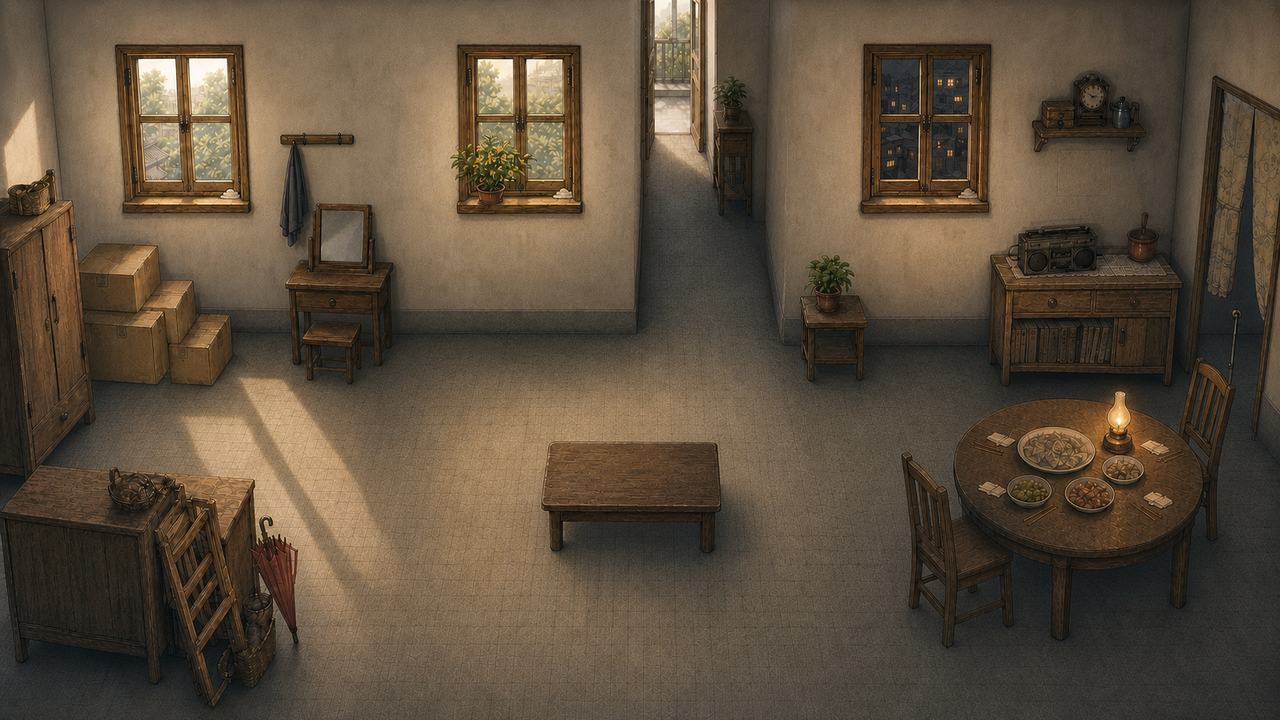
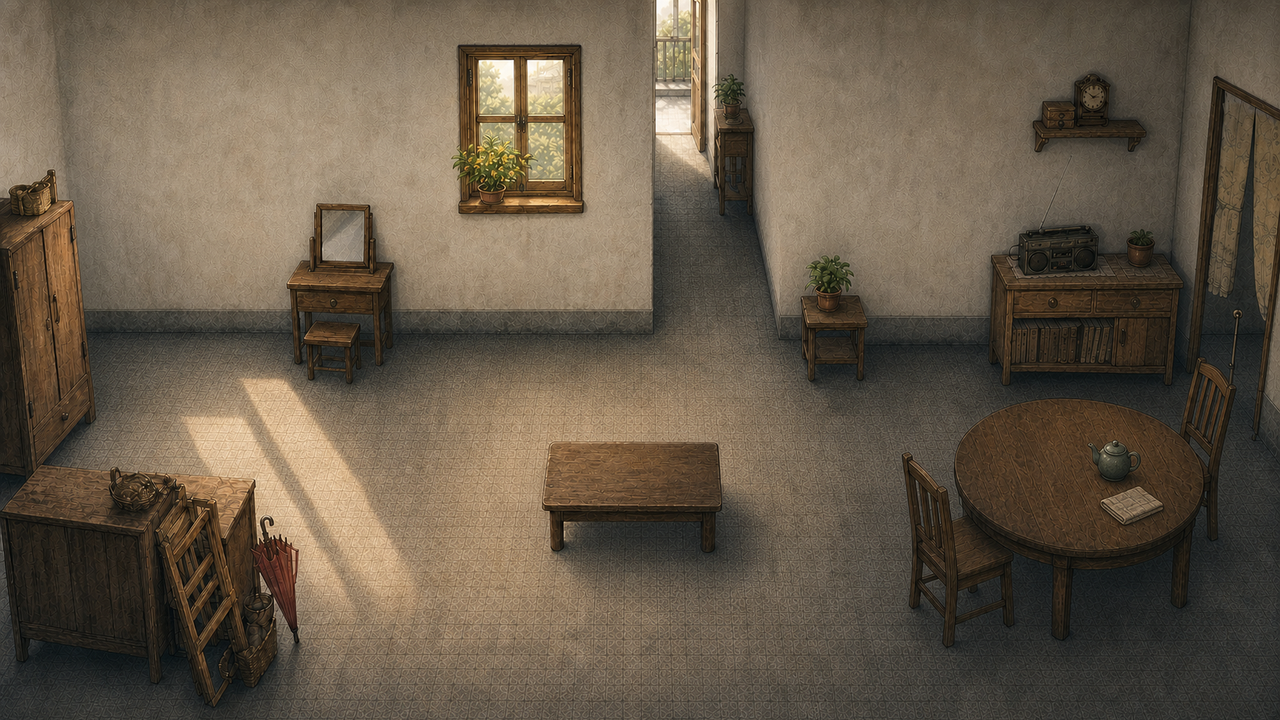
fix: align shared life resolved state

diff --git a/tests/e2e/shared-life-art.spec.ts b/tests/e2e/shared-life-art.spec.ts
@@ -80,6 +80,23 @@ async function capture(page: Page, testInfo: TestInfo, name: string): Promise<vo
   });
 }
 
+async function captureCanvas(page: Page, testInfo: TestInfo, name: string): Promise<void> {
+  const overlays = page.locator('#hud, #panel-layer, #system-layer');
+  await overlays.evaluateAll((elements) => {
+    for (const element of elements) (element as HTMLElement).style.visibility = 'hidden';
+  });
+  try {
+    await page.locator('canvas').screenshot({
+      path: testInfo.outputPath(`${name}.png`),
+      animations: 'allow',
+    });
+  } finally {
+    await overlays.evaluateAll((elements) => {
+      for (const element of elements) (element as HTMLElement).style.visibility = '';
+    });
+  }
+}
+
 async function assertNoPageScroll(page: Page): Promise<void> {
   const metrics = await page.evaluate(() => ({
     viewportWidth: window.innerWidth,
@@ -235,7 +252,12 @@ test('completes photo ordering, all three placements and the corridor exit', asy
   await moveTo(page, 940, 215);
   await moveTo(page, 940, 385);
   await moveTo(page, 1065, 385);
-  await interactWith(page, '收音机 · 波纹槽');
+  const radioPrompt = page.locator('.interaction-prompt');
+  await expect(radioPrompt).toContainText('收音机 · 波纹槽');
+  await radioPrompt.click();
+  await page.waitForTimeout(340);
+  await captureCanvas(page, testInfo, 'shared-life-resolved-crossfade-midpoint');
+  await page.waitForTimeout(510);
   await page.getByRole('button', { name: '继续对白' }).click();
   await expect(page.locator('.objective-chip')).toContainText('走进房间上方延长的走廊');
   await capture(page, testInfo, 'shared-life-all-objects-placed');
@@ -257,15 +279,16 @@ test('keeps Shared Life stable with low stimulation and reduced motion', async (
   await patchSave(page, {
     phase: 'playing',
     chapterId: 'life',
-    checkpointId: 'checkpoint.life.photos',
+    checkpointId: 'checkpoint.life.complete',
+    objective: '走进房间上方延长的走廊',
     degradationStage: 'D2',
     mode: 'low_stimulation',
     player: { x: 640, y: 590, facing: 'up', moving: false },
-    inventory: ['item.life.enamel_cup', 'item.life.cassette'],
+    inventory: ['item.life.wood_comb', 'item.life.enamel_cup', 'item.life.cassette'],
     flags: ['degradation.d2.started', 'puzzle.life.photo_order.completed'],
     puzzles: {
       photoOrder: ['photo.1979', 'photo.1992', 'photo.2001'],
-      placedObjects: ['item.life.wood_comb'],
+      placedObjects: ['item.life.wood_comb', 'item.life.enamel_cup', 'item.life.cassette'],
     },
     settings: { reducedMotion: true },
     modal: null,
@@ -278,6 +301,7 @@ test('keeps Shared Life stable with low stimulation and reduced motion', async (
   await expect.poll(() => canvasSampleColorCount(page)).toBeGreaterThan(16);
   await expect(page.locator('html')).toHaveAttribute('data-motion', 'reduced');
   await expect(page.locator('.stage-chip')).toContainText('低扰动');
+  await page.waitForTimeout(180);
   await assertNoPageScroll(page);
   await capture(page, testInfo, 'shared-life-low-stimulation-reduced-motion');
 });

diff --git a/src/phaser/scenes/GameScene.ts b/src/phaser/scenes/GameScene.ts
@@ -471,7 +471,7 @@ export class GameScene extends Phaser.Scene {
       });
     }
 
-    const resolvedTarget = lifeCompleted ? 0.9 : photosOrdered ? 0.18 : 0;
+    const resolvedTarget = lifeCompleted ? 1 : photosOrdered ? 0.18 : 0;
     if (this.lifeResolvedBackdrop && this.lifeResolvedTarget !== resolvedTarget) {
       this.lifeResolvedTarget = resolvedTarget;
       this.tweens.killTweensOf(this.lifeResolvedBackdrop);

diff --git a/docs/ART_BIBLE.md b/docs/ART_BIBLE.md
@@ -109,7 +109,7 @@
 
 第三章 Shared Life v02 以“同一个家在三个年代同时显影”为构图基线。1979、1992、2001 三个区域各有一扇同源四格木窗：外框尺寸、窗格比例、中央插销与右下磕痕保持一致，只改变木框磨损、玻璃光线和生活痕迹。左侧保留纸箱与镜台，中段以桂花窗台、身高刻度和圆形水印形成最暖区域，右侧以收音机与停电纪念日晚餐形成柔和夜景；下中出生区、绕行相册桌的主通道与上中延长走廊必须始终清楚。场景中不悬挂年份牌；准确年份只在可检查的照片线索中以 DOM 可控排版显示，不写入生成背景或照片像素。
 
-Shared Life 背景不得烘焙三张松散照片、木梳、搪瓷杯、录音带或空相册。上述对象继续使用透明图集；归位前显示条纹托盘、圆点垫和波纹凹槽，归位后同一实体视图切换为对应实物 frame。三段年代叠影只做低透明度淡变：照片排序完成后先降低全部接缝薄雾，每归位一件物品再收束对应年代；三件全部归位后，以 `environment.life.resolved` 短淡变叠入连贯的当代客厅印象。减少动态效果下所有阶段统一使用 140 毫秒短淡变。
+Shared Life 背景不得烘焙三张松散照片、木梳、搪瓷杯、录音带或空相册。上述对象继续使用透明图集；归位前显示条纹托盘、圆点垫和波纹凹槽，归位后同一实体视图切换为对应实物 frame。三段年代叠影只做低透明度淡变：照片排序完成后先降低全部接缝薄雾，每归位一件物品再收束对应年代；三件全部归位后，以 `environment.life.resolved` 短淡变叠入连贯的当代客厅印象。收束态与初始态保持墙体、走廊、中央桌和固定家具注册一致，只保留中间的成熟桂花窗，左右窗、搬家纸箱、年代接缝和停电宴席自然淡回同一晨光下的连续墙地与日常圆桌。减少动态效果下所有阶段统一使用 140 毫秒短淡变。
 
 清晨住宅中的床边合影、红线日记、蓝色钥匙碗和眼镜盒使用独立透明 PNG，不烘焙进环境背景；运行时由 Tiled 稳定 ID 定位，拾取后随实体视图一起隐藏。
 

diff --git a/docs/ASSET_REGISTRY.md b/docs/ASSET_REGISTRY.md
@@ -64,7 +64,7 @@
 | environment.home.frontwall_overlay | 项目团队 | environment_home_v10.png + scripts/prepare_home_architecture_overlays.py | public/assets/environments/environment_home_frontwall_overlay_v01.png | 从项目背景机械提取；无新增素材 | review | Codex 透明通道静态查看 | 2026-06-25 | 前墙与左下竖墙段透明遮挡层，sortY=705 |
 | environment.rain.background | 项目团队 | assets-source/art/environments/environment_rain_v01.svg | public/assets/environments/environment_rain_v01.png | 项目原创 SVG；无第三方素材 | review | Codex 浏览器验收 | 2026-06-22 | 1280×720；斜向站台、积水、石板与钟表铺雨棚 |
 | environment.life.background | 项目团队 | assets-source/art/environments/environment_life_v02_generated.png | public/assets/environments/environment_life_v02.png | 项目定制生成；OpenAI ImageGen；无第三方素材 | review | Codex 静态检查与 Playwright 三视口验收 | 2026-06-28 | 1280×720；同一家庭在 1979/1992/2001 同时显影；三扇窗严格复用相同外框、四格、插销与右下磕痕；右侧餐桌收小并提高夜景暗部可读性；不烘焙拾取物或年份文字 |
-| environment.life.resolved | 项目团队 | assets-source/art/environments/environment_life_resolved_v01_generated.png | public/assets/environments/environment_life_resolved_v01.png | 项目定制生成；OpenAI ImageGen；无第三方素材 | review | Codex 静态检查与 Playwright 完成态验收 | 2026-06-28 | 1280×720；与 Shared Life v02 构图注册的收束态；三件物品全部归位后短淡入，统一墙地与光线为连贯当代客厅印象；不承担谜题真值 |
+| environment.life.resolved | 项目团队 | assets-source/art/environments/environment_life_resolved_v01_generated.png | public/assets/environments/environment_life_resolved_v01.png | 项目定制生成；OpenAI ImageGen；无第三方素材 | review | Codex 静态检查、淡变中点与 Playwright 完成态验收 | 2026-06-28 | 1280×720；与 Shared Life v02 墙体、走廊、中央桌及固定家具注册对齐；只保留中间成熟桂花窗，移除左右时间窗、纸箱、年代接缝及停电宴席，统一为同向晨光和日常圆桌；不承担谜题真值 |
 | environment.return.background | 项目团队 | assets-source/art/environments/environment_return_v01.svg | public/assets/environments/environment_return_v01.png | 项目原创 SVG；无第三方素材 | review | Codex 浏览器验收 | 2026-06-22 | 1280×720；重复十字长廊、四向地砖箭头与暗红伞痕 |
 | environment.ending.background | 项目团队 | assets-source/art/environments/environment_ending_v01.svg | public/assets/environments/environment_ending_v01.png | 项目原创 SVG；无第三方素材 | review | Codex 浏览器验收 | 2026-06-22 | 1280×720；回到现实清晨、暖白留白、桌上两碗热面 |
 | map.home | 项目团队 | public/assets/data/map.home.json | 同左 | 原创 Tiled 对象数据 | review | Codex 静态数据同步；本轮未跑自动化测试 | 2026-06-25 | Tiled 对象层提供出生区、稳定 ID 与 17 个家具/墙体碰撞矩形；v10 扩大上方开口并拆分左下竖墙以恢复储物间通道；右侧门洞只保留室内侧 hotspot，不要求走入门槛；门 hotspot 位于 `(1225, 560)` |

diff --git a/docs/LEVEL_DESIGN.md b/docs/LEVEL_DESIGN.md
@@ -313,7 +313,7 @@
 
 `collision` 层使用 1280×720 运行时边界，并为相册桌、镜台、收音机柜、纪念日晚餐桌、纸箱和左下前景柜建立脚印矩形；右侧餐桌脚印为 x=960–1230、y=420–640，与收小后的桌面一致，并在收音机柜下方留出可接近槽位的通道。纸箱与镜台脚印之间保留不少于一个角色脚部宽度的通道，顶部外墙在 x=620–780 留出走廊口。`navigation` 恢复区为 x=32–1248、y=32–688，玩家不会走出可见画布。
 
-表现层只读取既有领域状态：初始保留三段低透明度叠影；`puzzle.life.photo_order.completed` 后全部年代接缝先收束一次；`placedObjects` 中每增加一件物品，对应年代薄雾继续降低；三件全部归位后淡入 `environment.life.resolved`，短暂形成连贯的当代客厅印象，再由原有出口流程进入第四章。以上变化不新增进度字段，也不参与碰撞或谜题判断。
+表现层只读取既有领域状态：初始保留三段低透明度叠影；`puzzle.life.photo_order.completed` 后全部年代接缝先收束一次；`placedObjects` 中每增加一件物品，对应年代薄雾继续降低；三件全部归位后完整淡入 `environment.life.resolved`，短暂形成连贯的当代客厅印象，再由原有出口流程进入第四章。收束态保持所有碰撞对齐家具与走廊位置，只保留中间的成熟桂花窗，并移除左右时间窗、搬家纸箱、停电宴席和年代接缝。以上变化不新增进度字段，也不参与碰撞或谜题判断。
 
 ### 6.4 D2 触发
 